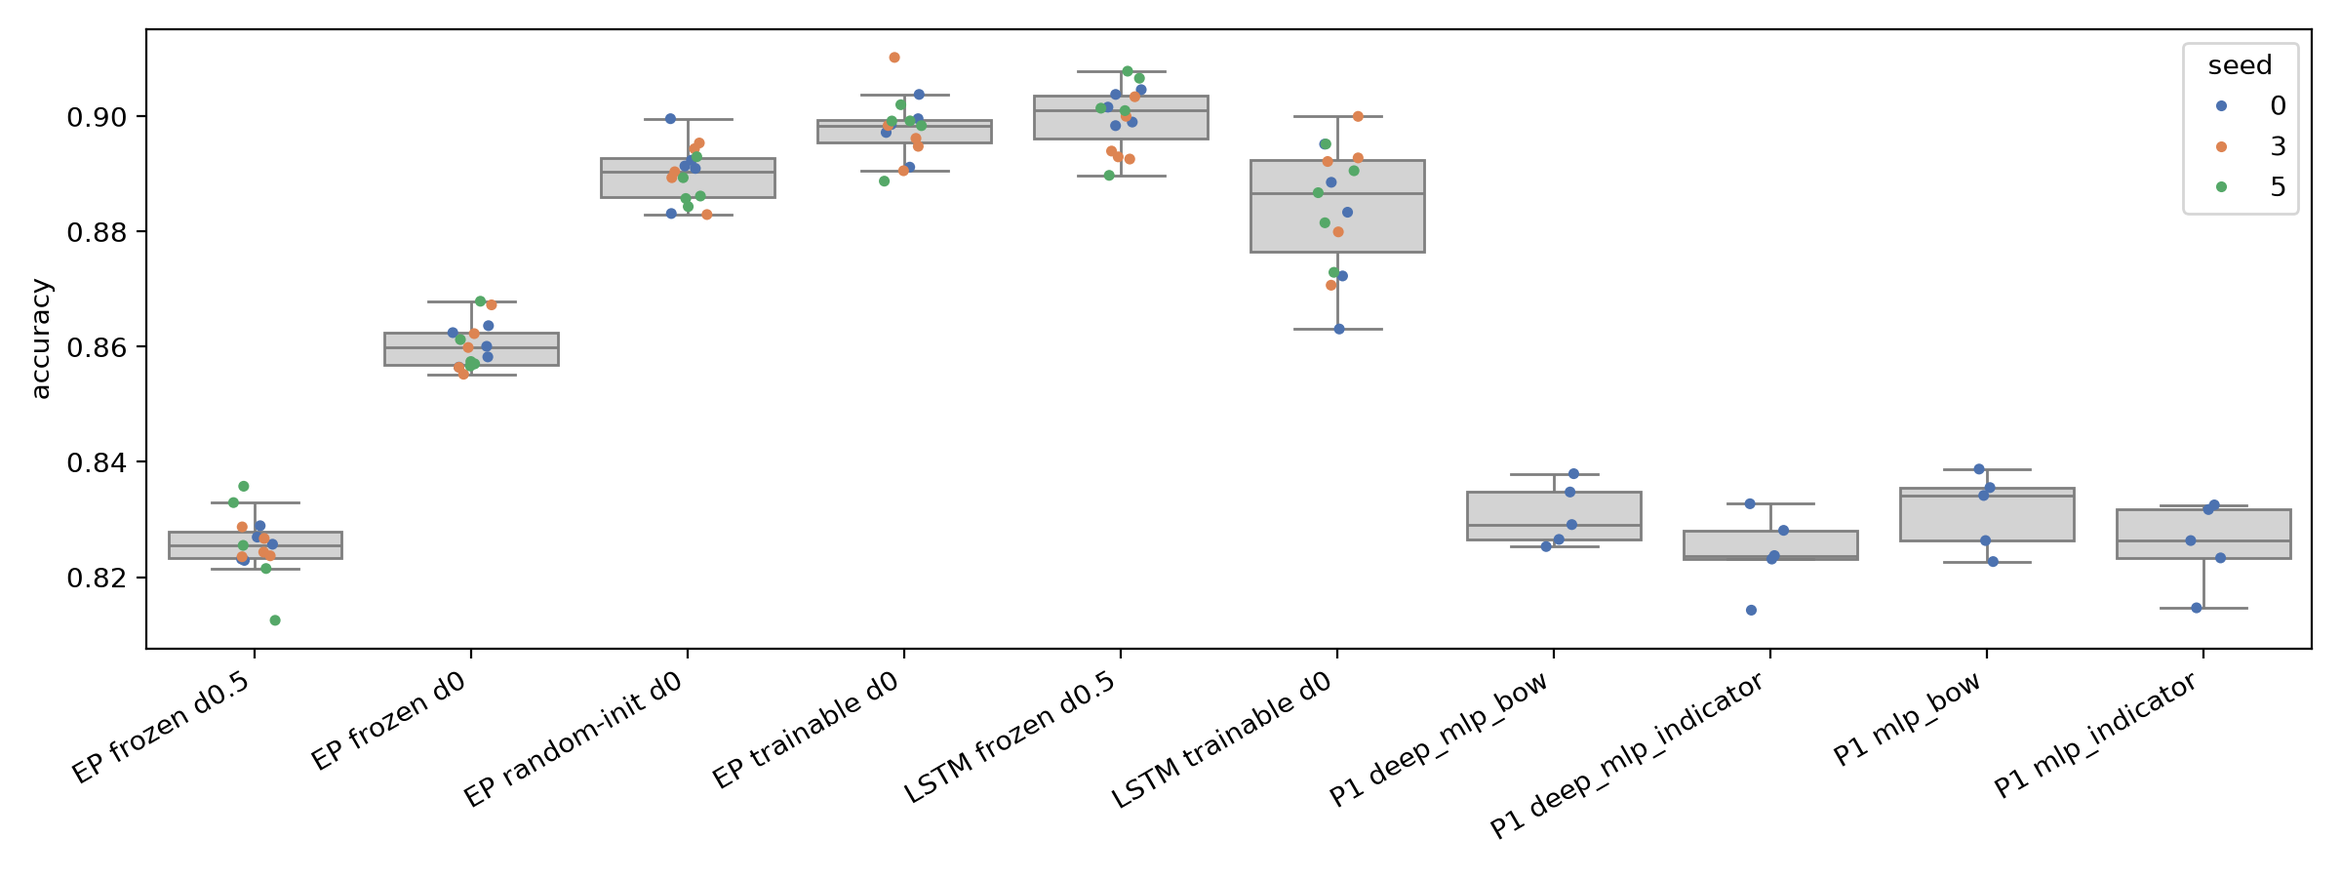
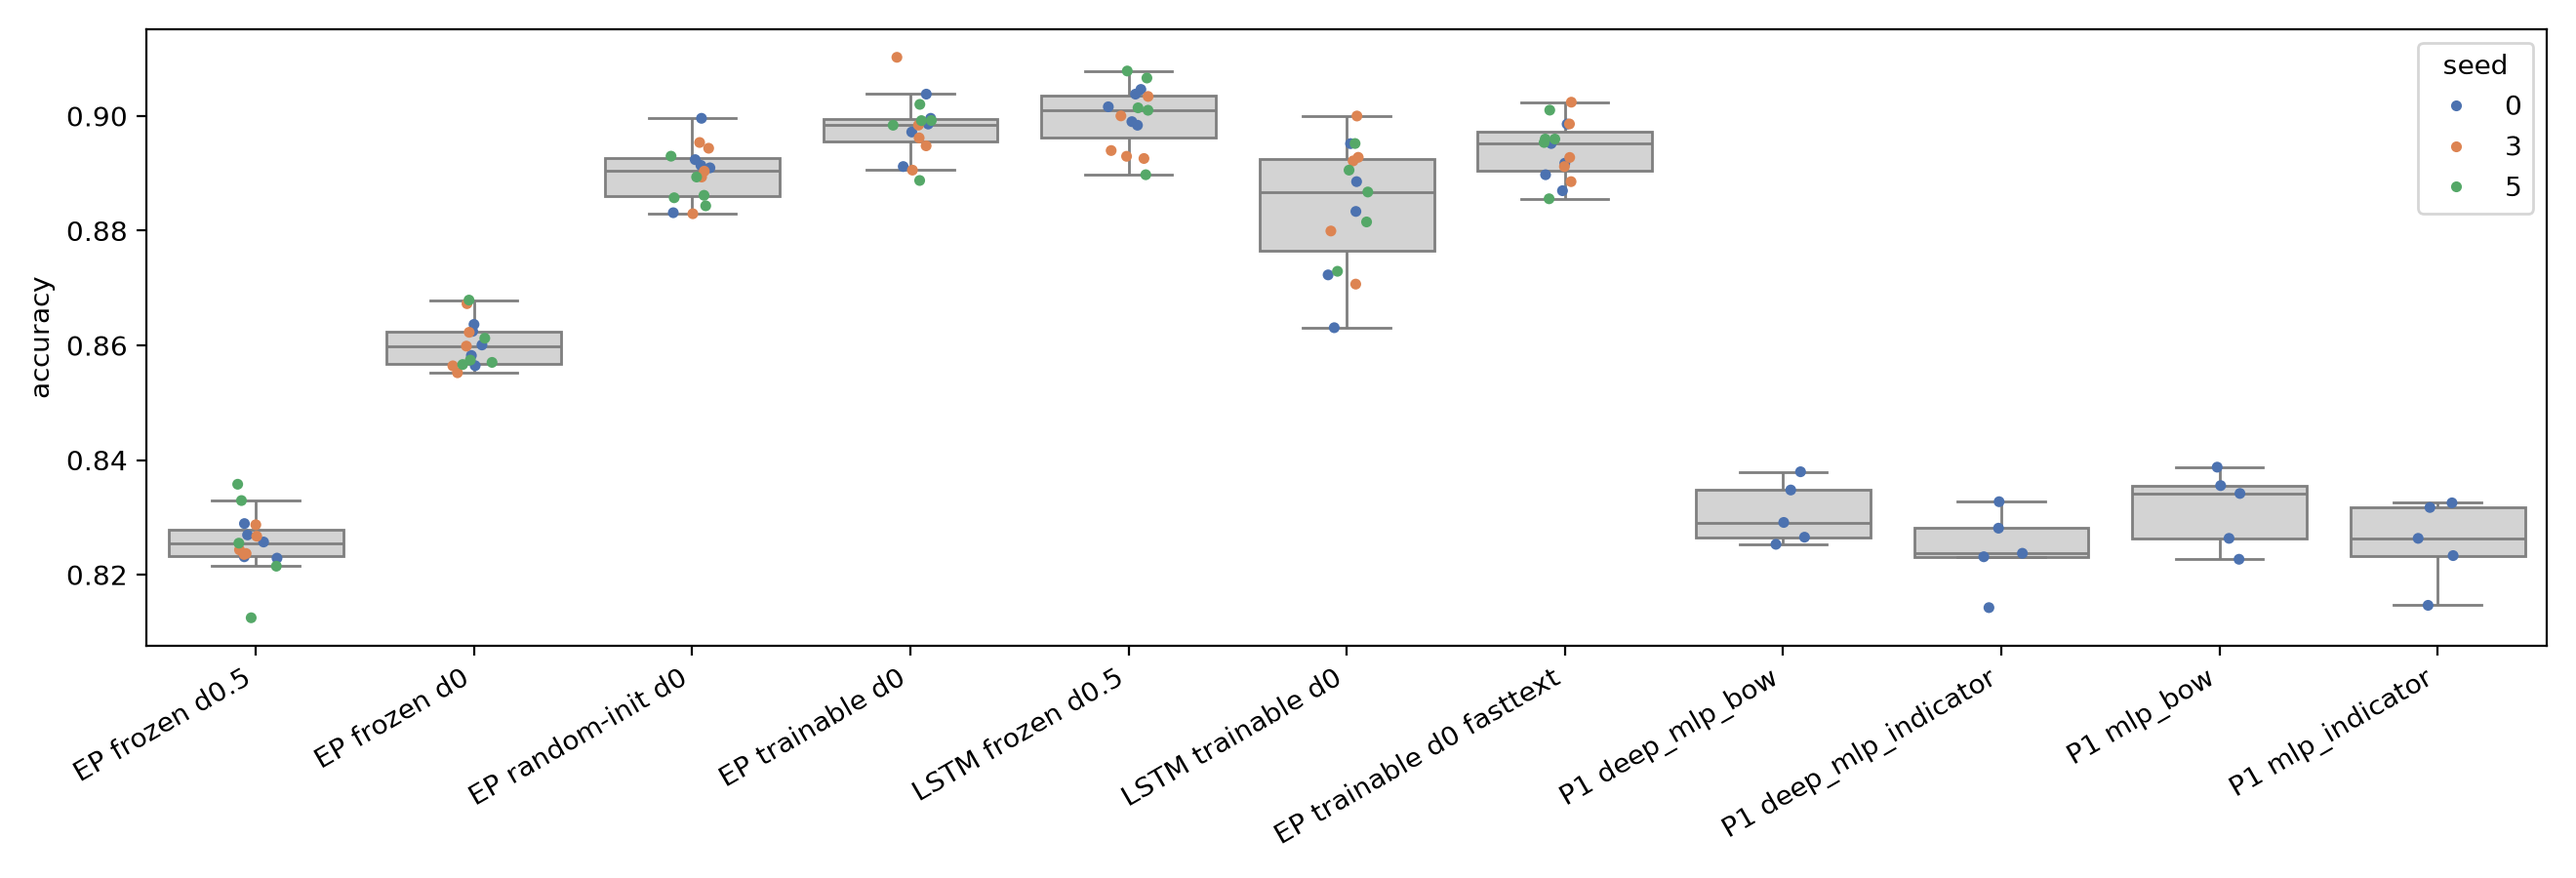
Results

diff --git a/part2/plot_results.py b/part2/plot_results.py
@@ -28,6 +28,7 @@ SYSTEMS = {
     "EP trainable d0": imdb / "embed-and-pool-trainable" / "baseline",
     "LSTM frozen d0.5": imdb / "lstm" / "baseline",
     "LSTM trainable d0": imdb / "lstm-trainable-d0" / "baseline",
+    "EP trainable d0 fasttext": imdb / "embed-and-pool-trainable-fasttext" / "baseline",
 }
 for d in sorted(part1.glob("*-enc")):
     SYSTEMS[f"P1 {d.name.replace('-enc', '')}"] = d
@@ -90,3 +91,24 @@ if rows:
     print("saved", out / "data_size.png")
 else:
     print("skip data-size plot (no size-* results yet)")
+
+# LSTM screen (1 seed, one axis at a time from the frozen baseline hidden 100, word dropout 0.1)
+SCREEN = {
+    "hidden 50": imdb / "lstm-screen" / "hidden-50" / "baseline",
+    "hidden 100 (baseline)": imdb / "lstm" / "baseline",
+    "hidden 200": imdb / "lstm-screen" / "hidden-200" / "baseline",
+    "word dropout 0": imdb / "lstm-screen" / "worddrop-0" / "baseline",
+    "word dropout 0.1 (baseline)": imdb / "lstm" / "baseline",
+    "word dropout 0.3": imdb / "lstm-screen" / "worddrop-0.3" / "baseline",
+}
+rows = []
+for label, folder in SCREEN.items():
+    f = Path(folder) / "seed-0" / "accuracies.json"
+    if f.exists():
+        rows += [{"setting": label, "fold": int(k), "accuracy": float(v)} for k, v in json.loads(f.read_text()).items()]
+if rows:
+    sc = pd.DataFrame(rows)
+    sc.to_csv(out / "lstm_screen.csv", index=False)
+    print(sc.groupby("setting")["accuracy"].agg(["mean", "std", "count"]).round(4).to_string())
+else:
+    print("skip LSTM screen (no lstm-screen results yet)")
